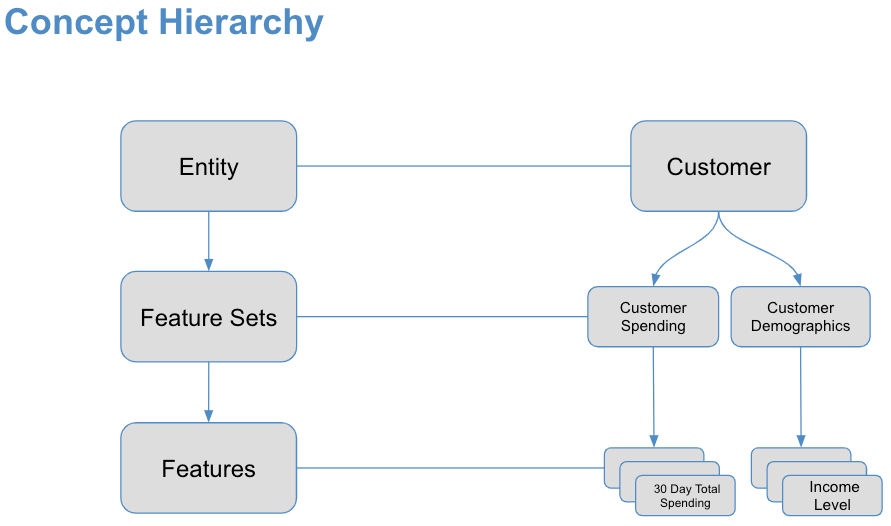
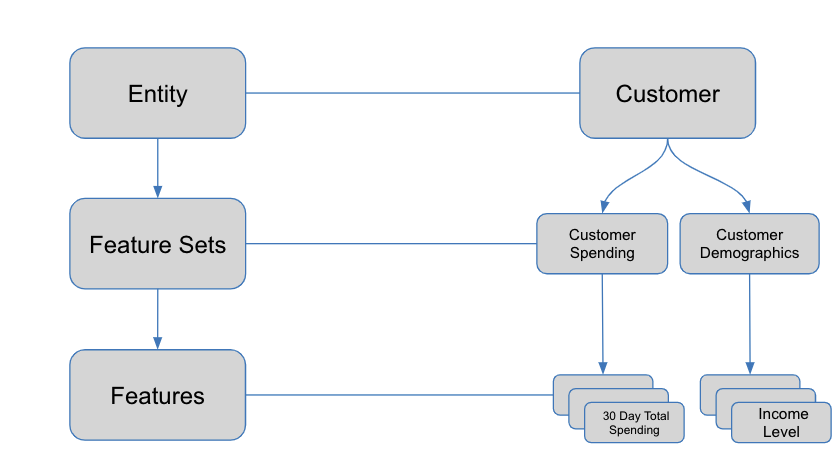
Feature store copy edits WIP

Changed region(s): [[0.0, 0.0, 1.0, 0.989]]

diff --git a/pages/FeatureStore/Architecture.md b/pages/FeatureStore/Architecture.md
@@ -11,8 +11,6 @@ folder: FeatureStore
 <section>
 <div class="TopicContent" data-swiftype-index="true" markdown="1">
 
-This topic explains the structure of the Splice Machine Feature Store.
-
 {% include splice_snippets/dbaasonlytopic.md %}
 
 This topic is organized into these sections:
@@ -22,45 +20,46 @@ This topic is organized into these sections:
 * [*Implementation*](#Implementation)
 
 # Design  {#Design}
-Users interact with the feature store through an API, but under the hood, the feature store interacts directly (via SQL) with relational tables in your Splice Machine database. When users create new data, features, and Training Sets, that information as well as it’s metadata is persisted in Splice Machine and tracked automatically.
+Users interact with the feature store through an API, but under the hood, the feature store interacts directly (via SQL) with relational tables in your Splice Machine database. When you create new data, features, and training sets, that information as well as its metadata is persisted in Splice Machine and tracked automatically.
 
-This is fundamentally different from other feature stores, because the Splice Machine feature store is powered directly by the Splice Machine database and is embedded into the core of your Splice Workspace. Other feature stores are loosely coupled with their data stores, which can add complexity, latency, and potential data leakage.
+This is fundamentally different than other feature stores, because the Splice Machine feature store is powered directly by the Splice Machine database, and is embedded into the core of your Splice Machine Workspace. Other feature stores are loosely coupled with their data stores, which can add complexity, latency, and potential data leakage.
 
 <img class='indentedTightSpacing' src='images/overall_architecture.png'>
 
-The Splice Machine Feature Store was designed as an *implicit* tracker of features and data. It is meant to be unobtrusive to the data flow, tracking changes to features and metadata behind the scenes. In this interaction model, data scientists and engineers define metadata (Features, Feature Sets, Training Datasets) in the feature store through the API, but do not need to use the api itself to feed or use the feature store.
+The Splice Machine feature store is designed as an *implicit* tracker of features and data. It is meant to be unobtrusive to the data flow, tracking changes to features and metadata behind the scenes. In this interaction model, data scientists and engineers define metadata (features, feature sets, training datasets) in the feature store through the API, but do not need to use the API itself to feed or use the feature store.
 
 <img class='indentedTightSpacing' src='images/splice_fs.png'>
 
-# Concept Hierarchy {#Concept_Hierarchy}
+# Conceptual Hierarchy {#Concept_Hierarchy}
 
 <img class='indentedTightSpacing' src='images/concept_hierarchy.png'>
 
-* **Entities** are a conceptual framework for organizing your feature sets. They are used to define a business domain like customer or product. Entities  are instantiated  within one or more feature sets; individual customers or products in our example. In practice, an entity is represented as the primary key(s) of a Feature Set.
-* **Feature Sets** are a group of features (represented as a relational table) that typically come from a single source or data pipeline.
-* **Features** are individual data points within a Feature Set. In the Splice Machine Feature Store, features are implemented as columns in the feature set table.
+* **Entities** are conceptual frameworks used to organize your feature sets. They are used to define a business domain such as customer or product. Entities are instantiated  within one or more feature sets; individual customers or products in our example. In practice, an entity is represented as the primary key(s) of a feature set.
+* **Feature sets** are a group of features (represented as a relational table) that typically come from a single source or data pipeline.
+* **Features** are individual data points within a feature set. In the Splice Machine feature store, features are implemented as columns in the feature set table.
 
 # Implementation {#Implementation}
-Under the hood, everything created in the feature store is persisted as relational tables. When users create a Feature Set, a table is created to hold current feature values, as well as a history table that keeps track of all past values of the features, as well as their “period of applicability” Period of applicability represents the span of time during which a particular value for a feature was active. As values for features are updated, their past versions are persisted in this history table in order to create training datasets.
-What you’re left with is 2 tables:
-1. A base feature set table used for real-time serving of features. This is the table that is directly updated when features change and will therefore contain most recent feature values. In other Feature Store implementations this could be thought of as your “online” features.
-2. A history table (automatically created) which will automatically store previous versions of each record in the base table whenever new values are applied. With all of the past values for those features, it is used to create training datasets for model training, monitoring, and retraining. In other Feature Stores this would be your “offline” features.
+Under the hood, everything created in the feature store is persisted as relational tables. When users create a feature set, a table is created to hold current feature values, along with a history table that keeps track of all past values of the features, as well as their “period of applicability”. Period of applicability represents the timespan during which a particular value for a feature was active. As values for features are updated, their past versions are persisted in this history table in order to create training datasets.
 
-The difference between Splice Machine and other feature stores is that *all* features are  both “online” and “offline” because all features are stored in a **single database** that maintains low-latency lookups, and petabyte scale aggregations.
+* The base feature set table is used for real-time serving of features. This is the table that is directly updated when features change, and therefore contains the most recent feature values. In other feature store implementations this could be thought of as your “online” features.
+
+* The history table (automatically created) automatically stores previous versions of each record in the base table whenever new values are applied. It contains all of the past values for those features, and is used to create training datasets for model training, monitoring, and retraining. In other feature stores this would be your “offline” features.
+
+The difference between Splice Machine and other feature stores is that *all* features are  both “online” and “offline” because all features are stored in a **single database** that maintains low-latency lookups and petabyte scale aggregations.
 
 <img class='indentedTightSpacing' src='images/create_fs.png'>
 
 <img class='indentedTightSpacing' src='images/fs_tables.png'>
 
-The ***YELLOW BOLD*** fields in the picture above are the Primary Key of each of these sample tables. In general, Feature Sets will have a primary key that identifies the entity for which we are collecting features. Note that the primary key of the history table is the same as the base table, but expanded to include the period of applicability (```ASOS_TS, UNTIL_TS```) which allows it to keep the full history of each feature’s value.
+The ***YELLOW BOLD*** fields in the image above are the primary keys of each of these sample tables. In general, feature sets have a primary key that identifies the entity for which we are collecting features. Note that the primary key of the history table is the same as the base table, but is expanded to include the period of applicability (```ASOS_TS, UNTIL_TS```), which allows it to retain the full history of each feature’s value.
 
-In Splice Machine’s Feature Store, once a Feature Set is deployed, users can interact with the feature set as a standard relational table using ANSI SQL. As features are updated in the base table, the before-update rows are stored in the corresponding history table to allow for point-in-time feature retrieval that is needed when creating training datasets.
+In the Splice Machine feature store, once a feature set is deployed, users can interact with the feature set as a standard relational table using ANSI SQL. As features are updated in the base table, the before-update rows are stored in the corresponding history table to allow for point-in-time feature retrieval that is needed when creating training datasets.
 
-Updates to the feature set base table can take on any form that the database supports. It can be done through basic SQL CRUD operations, bulk batch loads, real-time streaming, or through native DataFrame APIs via the Native Spark Datasource.
+Updates to the feature set base table can take any form that the database supports. Updates can be made using basic SQL CRUD operations, bulk batch loads, real-time streaming, or through native DataFrame APIs via the Native Spark DataSource.
 
 <img class='indentedTightSpacing' src='images/fs_structure.png'>
 
-In this architecture, the Feature Store API steps out of the interaction model and implicitly manages all features, removing the added complexity and latency from the user as the user no longer needs to install and invoke the feature store API every time they want to add or retrieve features.
+In this architecture, the feature store API steps out of the interaction model and implicitly manages all features. This greatly reduces complexity and latency, as there is no need to install and invoke the feature store API every time you want to add or retrieve features.
 
 
 </div>

diff --git a/pages/FeatureStore/What_is_a_FeatureStore.md b/pages/FeatureStore/What_is_a_FeatureStore.md
@@ -11,20 +11,19 @@ folder: FeatureStore
 <section>
 <div class="TopicContent" data-swiftype-index="true" markdown="1">
 
-This topic explains what a feature store is and how you can use it to accelerate MLOps.
-
 {% include splice_snippets/dbaasonlytopic.md %}
 
 # What is a Feature Store?
 
-## Problem
-Over the past few years, the industry has seen increased focus on how to best put Machine Learning in production. MLOps is an emerging space with a handful of great products, and new ideas coming every day. Dedicated teams are creating great systems for packaging and deploying machine learning models, and managing their health once deployed. The problem though, is that MLOps isn’t the whole story. FeatureOps or DataOps is needed to manage the data, features, and pipelines that are actually feeding your ML models. These features are the lifeblood of your algorithms, and without knowing *exactly* where they came from, you cannot trust your models in production.
+## Problem Statement
 
-So the question becomes, “how do I manage the extraction, engineering, serving and management of my features?” DevOps has a clear set of industry standard tools, and MLOps is fast approaching. The space for DataOps has not yet been defined, and it leaves open questions to every team trying to productionalize Machine Learning.
+Over the past few years there has been increased focus on how to best put Machine Learning into production. MLOps is an emerging space with a handful of great products, and new ideas emerging every day. Development teams are creating systems for packaging and deploying machine learning models, and managing their health once deployed. The problem is that MLOps is not the whole story. FeatureOps or DataOps is needed to manage the data, features, and pipelines that are actually feeding your ML models. These features are the lifeblood of your algorithms, and without knowing *exactly* where they came from, you cannot trust your models in production.
+
+So the question becomes, “How do I manage the extraction, engineering, serving, and management of my features?” DevOps has a clear set of industry standard tools, and standard tools for MLOps are rapidly emerging. The space for DataOps has not yet been defined, and this creates open questions for every team trying to implement Machine Learning in a production environment.
 
 ## The Feature Store
 
-The Feature Store is the answer to this question. A feature store is a centralized repository of clean and curated data to power ML models. It is the layer that sits between your raw data and the data science. This extra layer adds governance, tracking, and management of data specific to the needs of data scientists and engineers. Its feature serving function enables fast application integration by providing a consistent source of low latency feature sets with fresh values that are readily accessible to the ML models as they are deployed to production.  The Feature Store is the *interface between data scientists and data engineers.*
+The feature store is the solution to this problem. A feature store is a centralized repository of clean and curated data that is used to power ML models. It is the layer that sits between the raw data and the data science. This extra layer adds governance, tracking, and management of data to meet the specific needs of data scientists and engineers. Its feature serving function enables fast application integration by providing a consistent source of low latency feature sets with fresh values that are readily accessible to the ML models as they are deployed to production. The feature store is the *interface between data scientists and data engineers.*
 
 </div>
 </section>

diff --git a/pages/FeatureStore/UsingFeatureStore.md b/pages/FeatureStore/UsingFeatureStore.md
@@ -12,8 +12,6 @@ folder: FeatureStore
 <div class="TopicContent" data-swiftype-index="true" markdown="1">
 # Using the Splice Machine Feature Store
 
-This topic shows you how to use the Splice Machine Feature Store.
-
 {% include splice_snippets/dbaasonlytopic.md %}
 
 This topic is organized into these sections:
@@ -29,7 +27,7 @@ This topic is organized into these sections:
 
 
 # Getting Started  {#getting_started}
-To start using the feature store, in your Splice Machine workspace, inside of your Jupyter Notebooks, run the following:
+To start using the feature store, run the following in Jupyter Notebooks in your Splice Machine workspace:
 ```
 from pyspark.sql import SparkSession
 from splicemachine.spark import PySpliceContext
@@ -42,7 +40,7 @@ fs = FeatureStore(splice) # Feature Store
 mlflow.register_splice_context(splice) # Link mlflow with the database
 mlflow.register_feature_store(fs) # Link mlflow with feature store
 ```
-All of the components above can work separately, but when combined bring added lineage and governance to the ML and Data workflow. One you register the Feature Store with mlflow, the work you do in building models using training datasets from the Feature Store will be tracked automatically and implicitly with mlflow.
+All of the components above can work separately, but when combined they provide additional lineage and governance to the ML and Data workflow. Once you register the feature store with MLFlow, models built using training datasets from the feature store will be tracked automatically and implicitly with MLFlow.
 
 # Feature Set {#feature_set}
 
